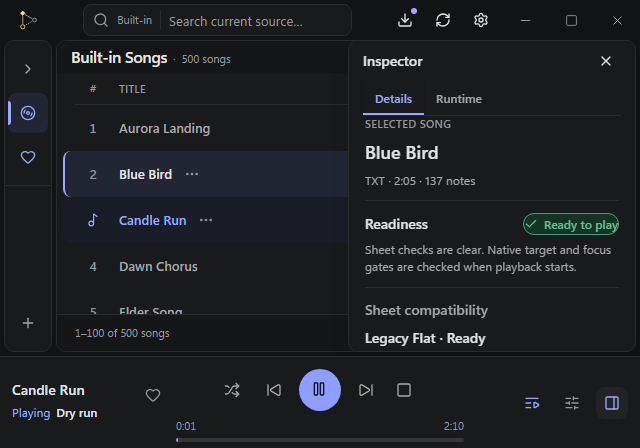
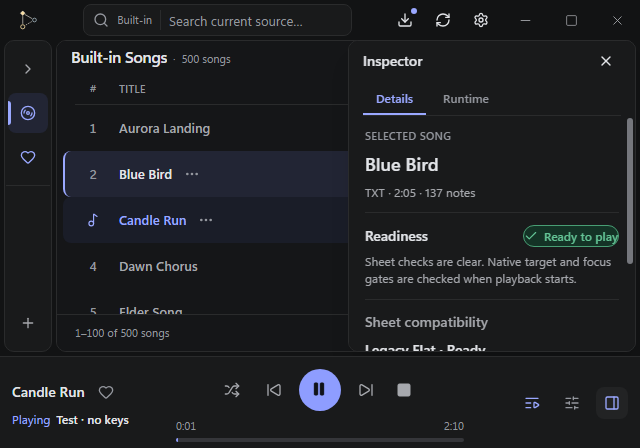
docs(ui): refresh VQC visual evidence

diff --git a/docs/ui/current/vqc/README.md b/docs/ui/current/vqc/README.md
@@ -1,0 +1,19 @@
+# VQC visual evidence
+
+Captured from the committed desktop source at [`486714582b47921cdd34ec750a292e89aae448de`](https://github.com/pumni/Sky-Auto-Player/commit/486714582b47921cdd34ec750a292e89aae448de) with Playwright Chromium and the deterministic browser mock bridge. These are rendered app states, not native Tauri or gameplay evidence. Compact captures use the viewport named in the file.
+
+| Capture | Rendered state |
+| --- | --- |
+| [tooltip-open.png](tooltip-open.png) | Hover tooltip open on Settings |
+| [scrollbar-visible-dragged.png](scrollbar-visible-dragged.png) | Base UI scrollbar after a real thumb drag |
+| [profile-expanded-compact.png](profile-expanded-compact.png) | Compact Playback Profile with Advanced timing expanded |
+| [profile-safe-preview-compact.png](profile-safe-preview-compact.png) | Compact profile scrolled to the full-width safe-preview action |
+| [profile-select-open-compact.png](profile-select-open-compact.png) | Playback Profile Base Hold Select open |
+| [settings-select-open-compact-flipped.png](settings-select-open-compact-flipped.png) | Settings palette Select open above its trigger at 640×320 |
+| [inspector-details-tab.png](inspector-details-tab.png) | Inspector with Details selected |
+| [inspector-runtime-tabs.png](inspector-runtime-tabs.png) | Inspector Runtime and segmented Performance/Timing/Events tabs |
+| [inspector-events-tab.png](inspector-events-tab.png) | Inspector Events tab selected |
+| [transport-play-idle-heart-short-title.png](transport-play-idle-heart-short-title.png) | Filled Play and short now-playing title with adjacent Like action |
+| [transport-pause-playing-heart.png](transport-pause-playing-heart.png) | Filled Pause while dry-run playback is active |
+| [transport-resume-paused-heart.png](transport-resume-paused-heart.png) | Filled Play glyph in the paused Resume state |
+| [transport-long-title-heart-compact.png](transport-long-title-heart-compact.png) | Ellipsized long title and adjacent Like action in the compact dock |
